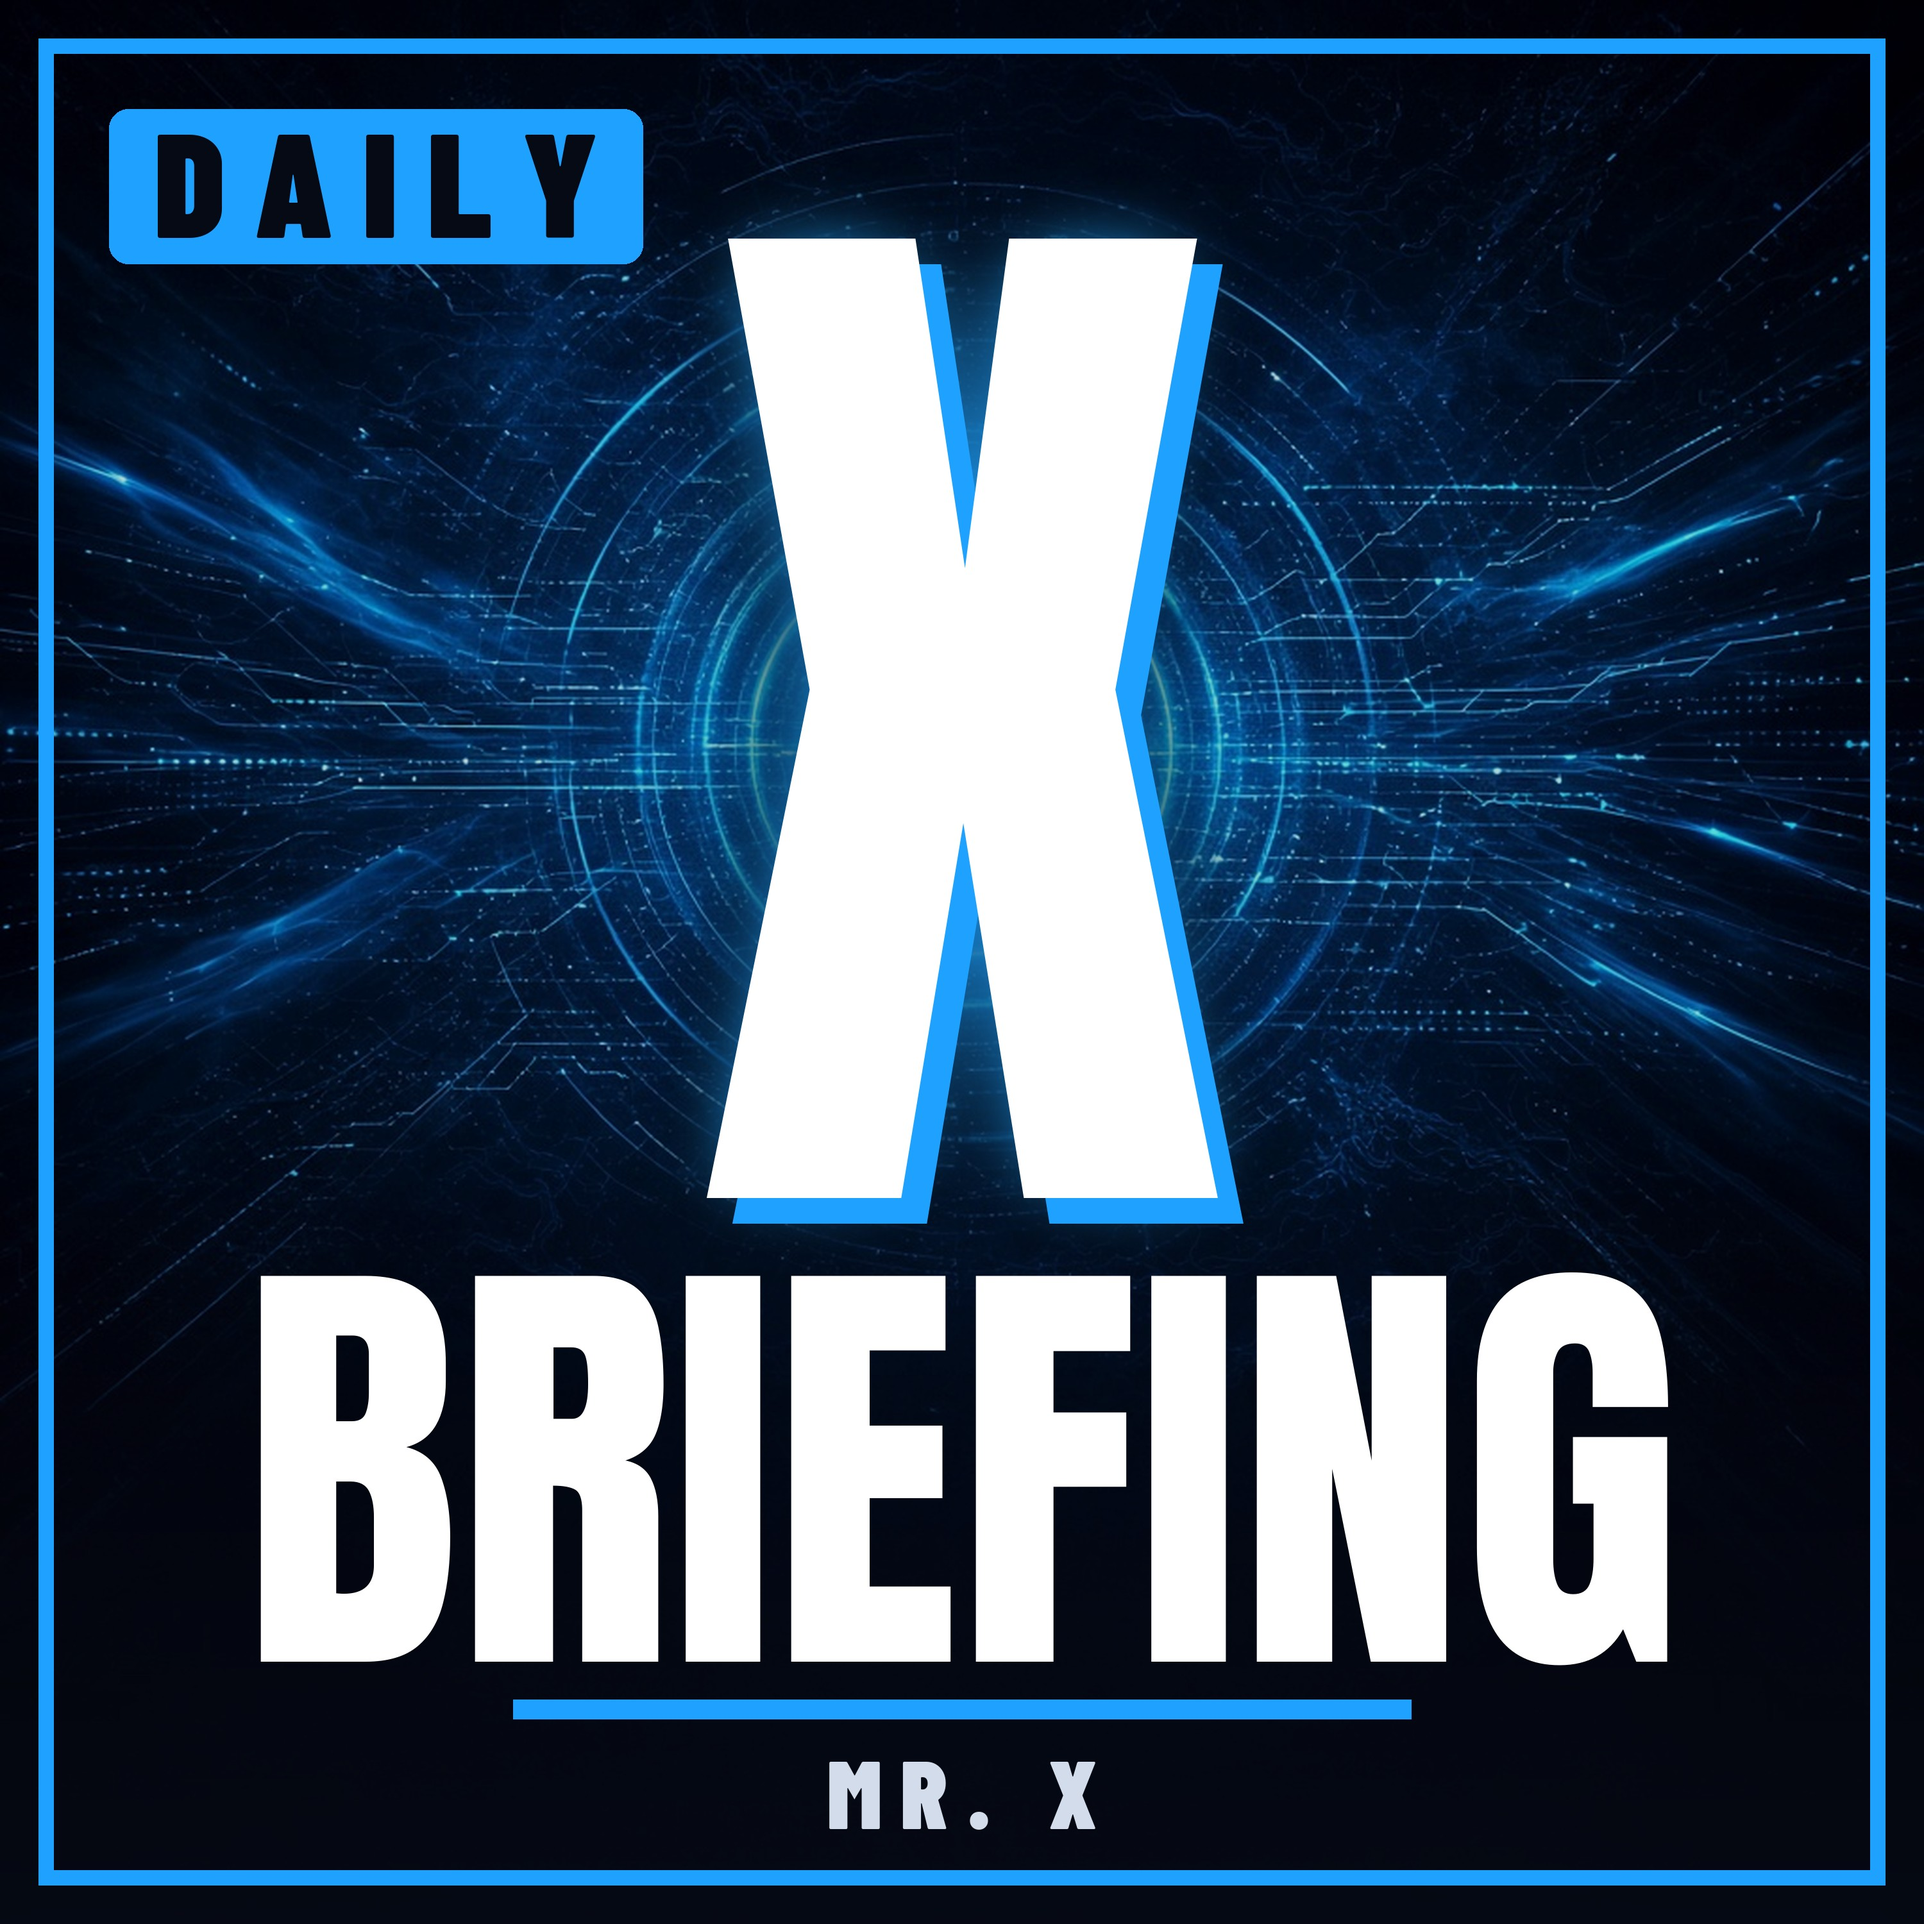
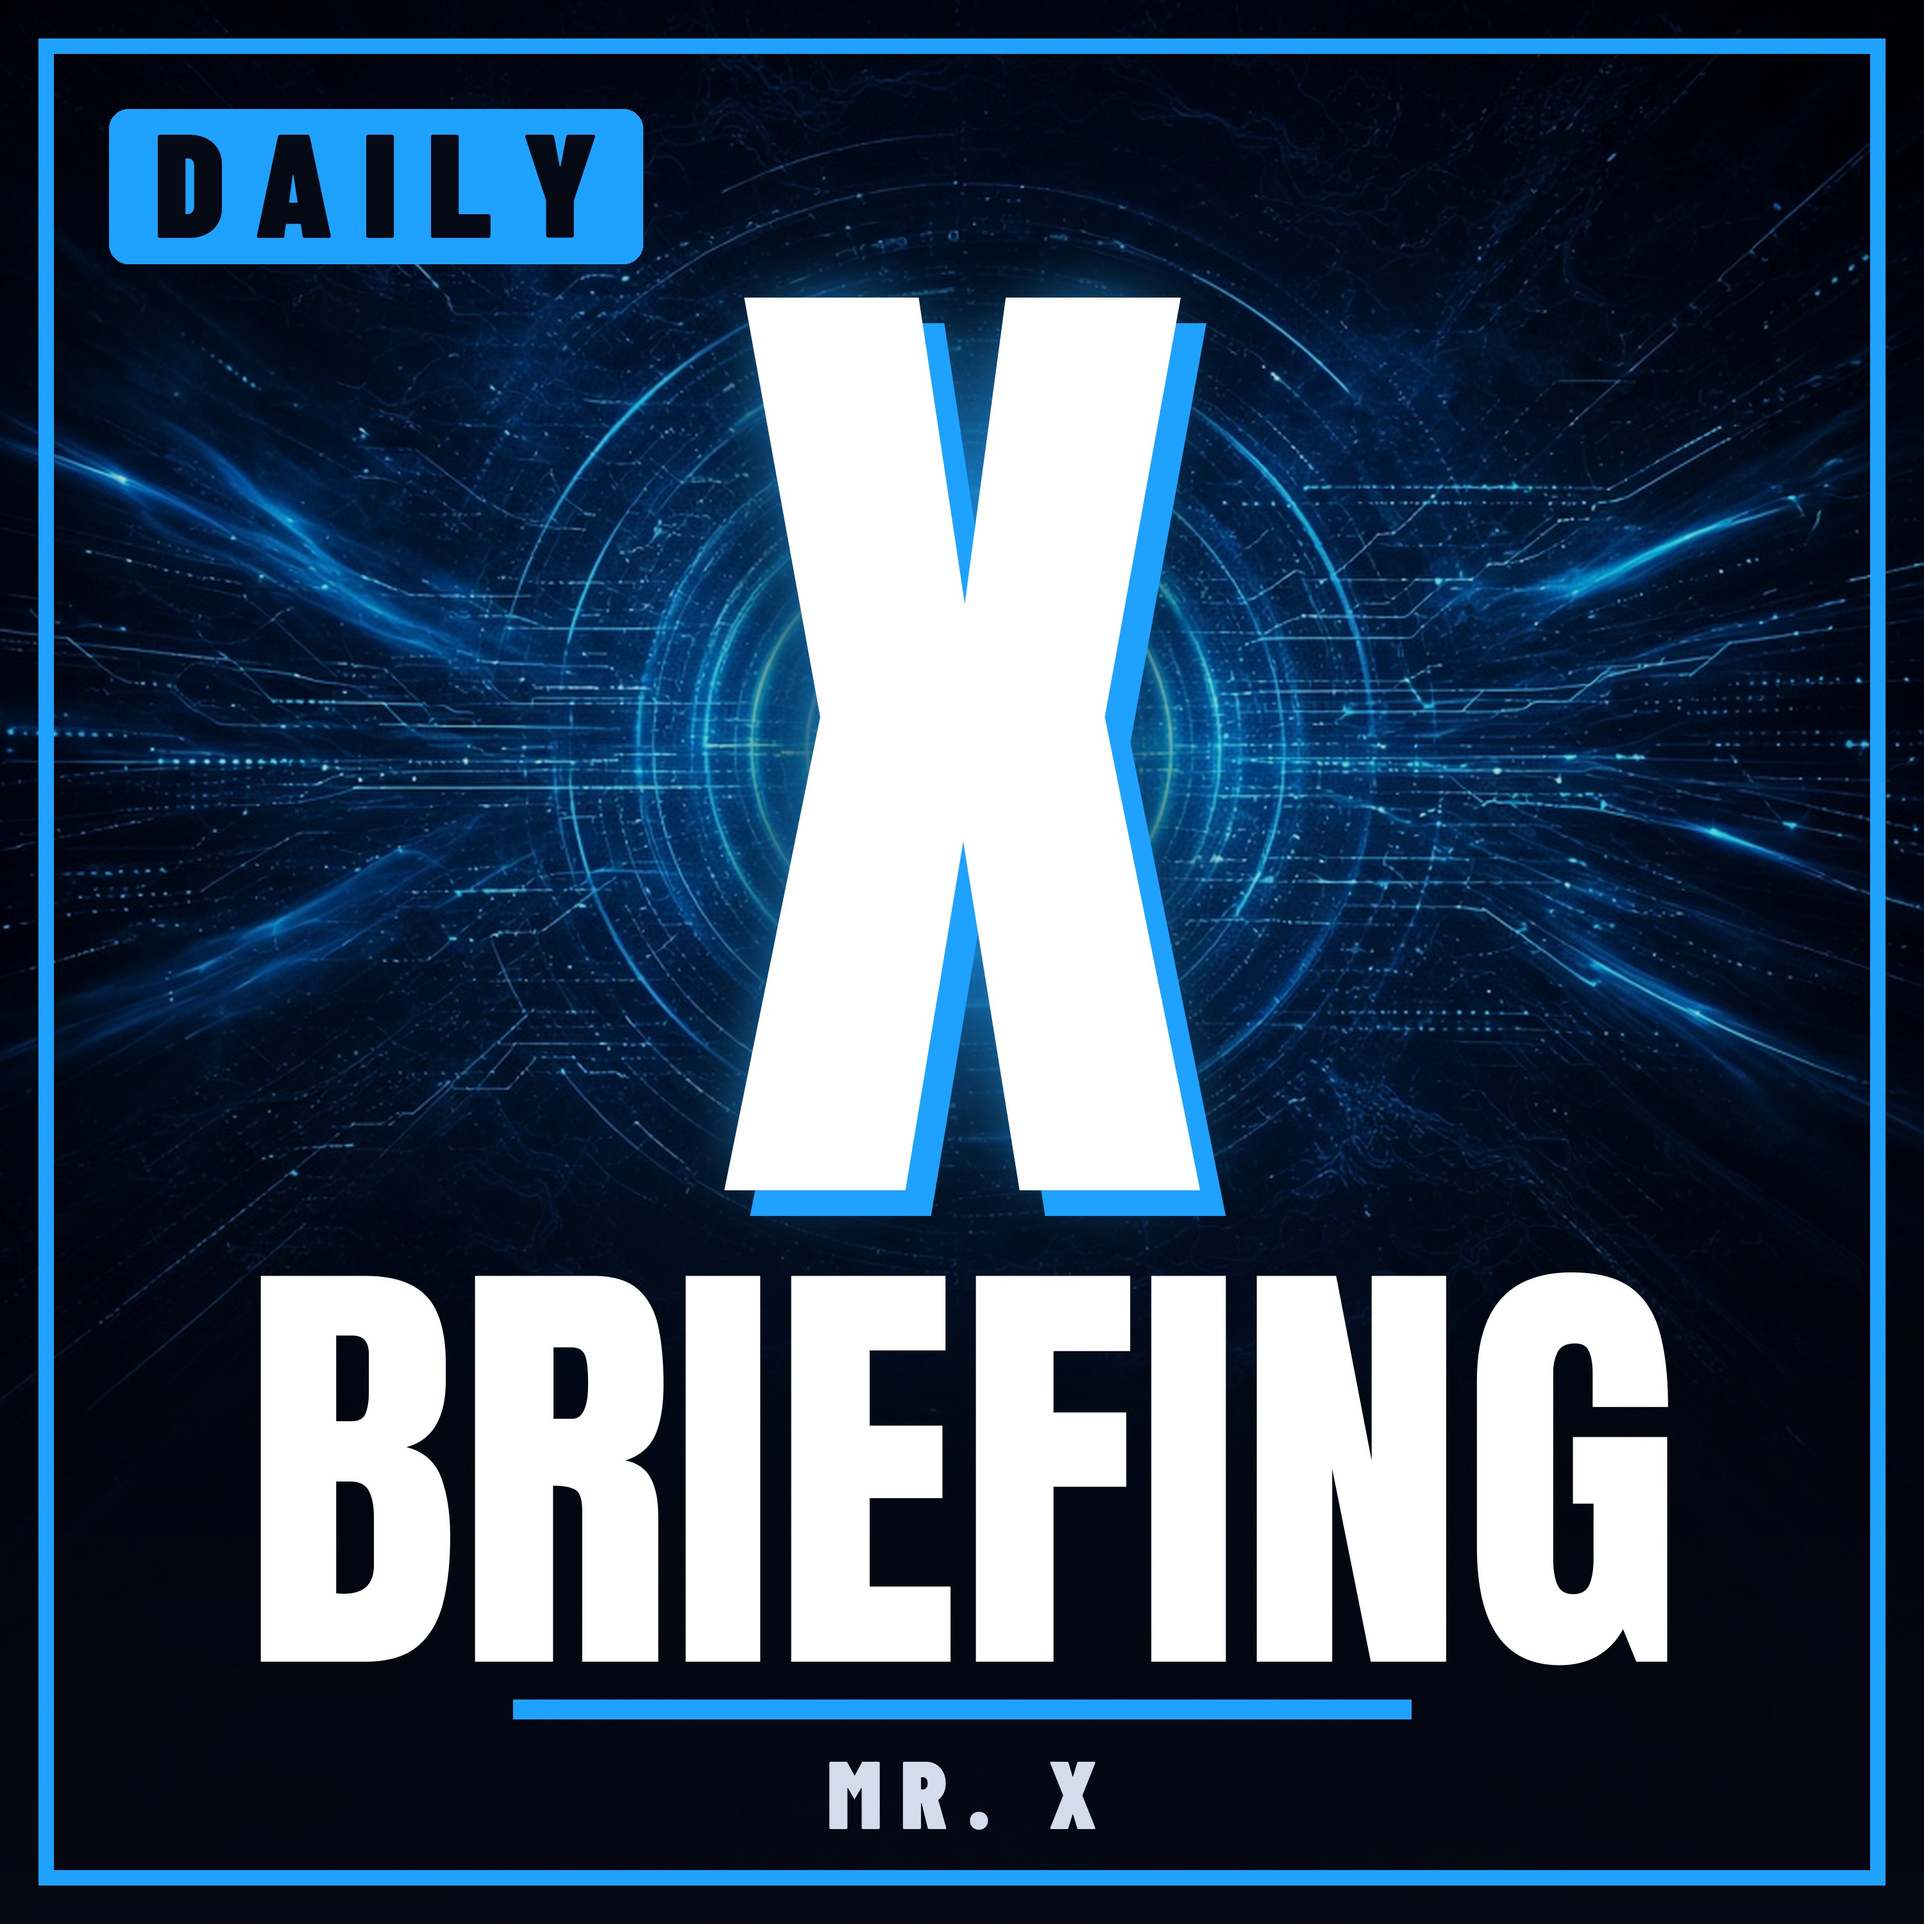
x-briefing: rebuild

diff --git a/tools/make_cover.py b/tools/make_cover.py
@@ -71,8 +71,8 @@ def main():
     img = bg.convert("RGBA")
 
     # MARK with accent glow
-    mark_f = fit(F_MARK, a.mark, 2300, 1500, 1900)
-    cy_mark = 1120
+    mark_f = fit(F_MARK, a.mark, 2300, 1400, 1900)
+    cy_mark = 1160
     glow = Image.new("RGBA", (S, S), (0, 0, 0, 0))
     gd = ImageDraw.Draw(glow)
     centered(gd, a.mark, mark_f, cy_mark, acc + (255,))

diff --git a/COVER_STYLE.md b/COVER_STYLE.md
@@ -1,0 +1,39 @@
+# Cover art series style (Angel's private podcasts)
+
+Generator: `tools/make_cover.py`. Each show sets its own cover filename with `cover_file` in
+`/workspace/x-briefing/feed_config.json`. The publisher writes that name into `itunes:image`
+and `<image>`. Apps cache artwork by URL, so **every redesign gets a new filename** (v3, v4, ...).
+
+## Canvas
+- 3000x3000 RGB JPEG, progressive. Quality starts at 90 and steps down until the file is under 1 MB.
+- Background: a generated abstract image (no text, no logos, no faces), center-cropped and darkened to 85% brightness.
+  The bottom 45% fades to base `#060A14` so the title reads cleanly. With no image, the background is solid `#060A14`.
+
+## Layout (px on the 3000 canvas)
+| Element | Font | Position / size | Color |
+|---|---|---|---|
+| Frame | — | 24 px stroke, inset 60 px | accent |
+| Kicker pill (`--subtitle`, letter-spaced caps) | Barlow Condensed Black 230 | top-left at (170,170), 70/40 padding, 30 radius | pill = accent, text = `#060A14` |
+| Mark (`--mark`, 1-3 chars) | Anton 400 (Regular) | auto-fit within 2300x1400, centered at y=1160 | `#FFFFFF` face, accent hard shadow offset +40/+40, accent glow (blur 70, x2) |
+| Title (`--title`, one word) | Anton | auto-fit within 2600x620, centered at y=2290 | `#FFFFFF` |
+| Rule | — | 1400x30 bar centered, y=2650-2680 | accent |
+| Byline (`--byline`, letter-spaced caps) | Barlow Condensed Black 150 | centered at y=2800 | `#D2DCEB` |
+
+Fonts: `/usr/share/fonts/truetype/sand-box/google/Anton/Anton-Regular.ttf`,
+`/usr/share/fonts/truetype/sand-box/google/Barlow Condensed/BarlowCondensed-Black.ttf`.
+
+## Per-show values
+| Show | mark | title | subtitle | byline | accent | bg |
+|---|---|---|---|---|---|---|
+| Daily X Briefing (`e3be17b285832ee8cf1c74da`) | `X` | `BRIEFING` | `DAILY` | `MR. X` | `#1FA2FF` electric blue | `tools/art/x-briefing-bg.jpg` (radiating signal rings) |
+| Market Analyst | (its choice; a different accent such as `#00E08A` green or `#FFB020` amber keeps the series distinct) | | | | | |
+
+## Command
+```
+cd /workspace/pods-site
+python3 tools/make_cover.py --mark X --title BRIEFING --subtitle DAILY --byline "MR. X" \
+  --accent "#1FA2FF" --bg tools/art/x-briefing-bg.jpg \
+  --out e3be17b285832ee8cf1c74da/x-briefing-cover-v2.jpg
+```
+Then set `cover_file` in the config and run `python3 /workspace/x-briefing/publish_episode.py --rebuild --show <key>`.
+Always check a 300 px and a 150 px downscale for legibility.
